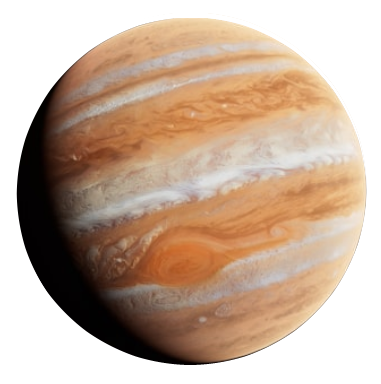
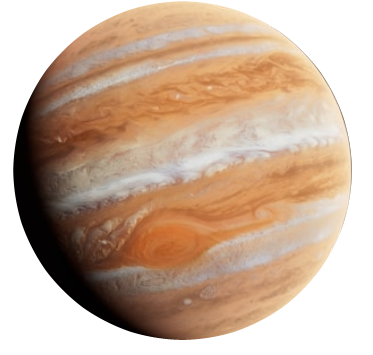
Add all planets and adjusted scaling

diff --git a/index.html b/index.html
@@ -15,7 +15,7 @@
       <section class="planets">
         <article class="planet_article mercury" id="mercury">
           <figure class="planet_img">
-            <img src="./images/Mercury2.png" alt="Planeten Merkur." />
+            <img src="./images/Mercury.png" alt="Planeten Merkur." />
             <figcaption>Merkur</figcaption>
           </figure>
 
@@ -25,32 +25,32 @@
 
         <article class="planet_article">
           <figure class="planet_img">
-            <img src="./images/" alt="Planeten Venus." />
+            <img src="./images/venus.png" alt="Planeten Venus." />
             <figcaption>Venus</figcaption>
           </figure>
-          <p class="planet_desc"></p>
+          <p class="planet_desc">filler text</p>
 
-          <aside class="rating"></aside>
+          <aside class="rating">rating fillertext</aside>
         </article>
 
         <article class="planet_article">
           <figure class="planet_img">
-            <img src="./images/" alt="Planeten Jorden." />
+            <img src="./images/earth.png" alt="Planeten Jorden." />
             <figcaption>Jorden</figcaption>
           </figure>
-          <p class="planet_desc"></p>
+          <p class="planet_desc">filler text</p>
 
-          <aside class="rating"></aside>
+          <aside class="rating">Rating Fillertext</aside>
         </article>
 
         <article class="planet_article">
           <figure class="planet_img">
-            <img src="./images/" alt="Planeten Mars." />
+            <img src="./images/mars.png" alt="Planeten Mars." />
             <figcaption>Mars</figcaption>
           </figure>
-          <p class="planet_desc"></p>
+          <p class="planet_desc">filler text</p>
 
-          <aside class="rating"></aside>
+          <aside class="rating">rating fillertext</aside>
         </article>
 
         <article class="planet_article">
@@ -58,39 +58,39 @@
             <img src="./images/jupiter.png" alt="Planeten Jupiter." />
             <figcaption>Jupiter</figcaption>
           </figure>
-          <p class="planet_desc">filler</p>
+          <p class="planet_desc">filler text</p>
 
-          <aside class="rating">filler</aside>
+          <aside class="rating">rating fillertext</aside>
         </article>
 
         <article class="planet_article">
           <figure class="planet_img">
-            <img src="./images/" alt="Planeten Saturn." />
+            <img src="./images/saturn.png" alt="Planeten Saturn." />
             <figcaption>Saturn</figcaption>
           </figure>
-          <p class="planet_desc"></p>
+          <p class="planet_desc">fillertext</p>
 
-          <aside class="rating"></aside>
+          <aside class="rating">rating fillertext</aside>
         </article>
 
         <article class="planet_article">
           <figure class="planet_img">
-            <img src="./images/" alt="Planeten Uranus." />
+            <img src="./images/uranus.png" alt="Planeten Uranus." />
             <figcaption>Uranus</figcaption>
           </figure>
-          <p class="planet_desc"></p>
+          <p class="planet_desc">filler text</p>
 
-          <aside class="rating"></aside>
+          <aside class="rating">rating fillertext</aside>
         </article>
 
         <article class="planet_article">
           <figure class="planet_img">
-            <img src="./images/" alt="Planeten Neptun." />
+            <img src="./images/neptune.png" alt="Planeten Neptun." />
             <figcaption>Neptun</figcaption>
           </figure>
-          <p class="planet_desc"></p>
+          <p class="planet_desc">filler text</p>
 
-          <aside class="rating"></aside>
+          <aside class="rating">rating fillertext</aside>
         </article>
 
         <p>test</p>

diff --git a/style.css b/style.css
@@ -26,19 +26,20 @@ header h1{
   align-items: center;
   min-height: 150vh;
   overflow: hidden;
-  border: 2px solid beige;
+
 }
 
 .planet_article{
   display: flex;
   justify-content: center;
   align-items: center;
-  flex: 1 1 auto;
+  flex: 1;
   border: 1px solid white;
   transition:
       font-size 1s cubic-bezier(0.61, -0.19, 0.7, -0.11),
       flex 1s cubic-bezier(0.61, -0.19, 0.7, -0.11),
-      background 0.2s;
+      background 0.2s; 
+  padding: 10vh 0 10vh 0;
   }
 
 .mercury{
@@ -57,14 +58,19 @@ header h1{
 figcaption{
   color: aliceblue;
 }
+.planet_img{
+  flex-direction: column;
+}
 img{
-  max-height: 100px;
-  max-width: 100%;
+  height: 100px;
+  width: 100px;
+  object-fit: contain;
   transition: transform 1s cubic-bezier(0.61, -0.19, 0.7, -0.11);
 }
 .planets>*{
   width: 100%;
-  flex: 1 0 auto;
+  height: 100%;
+  flex: 1;
   display: flex;
   justify-content: center;
   align-items: center;
@@ -78,7 +84,7 @@ img{
   transform: translateX(200%);
 }
 .planet_article>.planet_img{
-  transform: translateX(100%);
+  transform: translateX(90%);
 }
 .planet_article.open-active>.planet_img {
   transform: translateX(0%);
@@ -102,6 +108,3 @@ img{
   align-items: center;
   transition: transform 0.5s;
 } 
-.planet_img{
-  flex-direction: column;
-}
